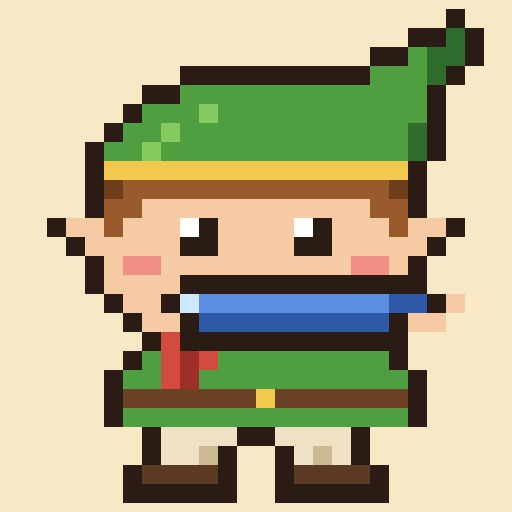
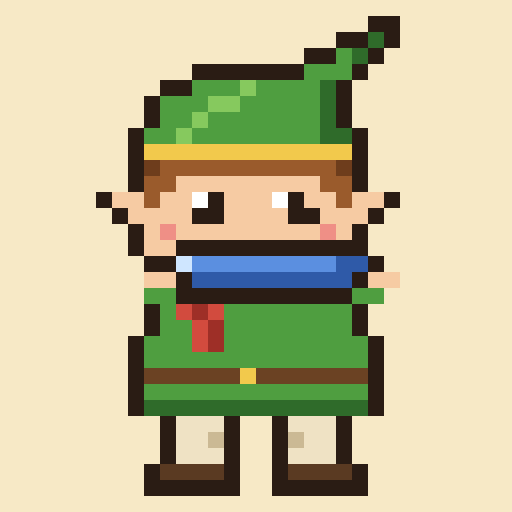
Elfe moins écrasé, trou double et positions des trous calés sur le modèle 11 trous
Claude-Session: https://claude.ai/code/session_01Dj4mnMGV58WeS5f45npAdA

diff --git a/js/scene.js b/js/scene.js
@@ -11,39 +11,43 @@
 
   // Corps du héros (20 x 21). Bonnet vert pointu qui retombe, écharpe rouge.
   const BODY = [
-    "......................k.",
-    "....................kkGk",
-    "..................kkgGGk",
-    "........kkkkkkkkkkgggGk.",
-    "......kkgggggggggggggk..",
-    ".....kggglgggggggggggk..",
-    "....kgglggggggggggggGk..",
-    "...kgglgggggggggggggGk..",
-    "...kyyyyyyyyyyyyyyyyk...",
-    "...kHhhhhhhhhhhhhhhHk...",
-    "...khhsssssssssssshhk...",
-    ".ksshssswesssswessshssk.",
-    "..kssssseesssseesssssk..",
-    "...kspps" + "ssssssss" + "sppsk...",
-    "...kssssssskksssssssk...",
-    "....kssssssssssssssk....",
-    ".....kkkkkkkkkkkkkk.....",
-    "......krrrrrrrrrrrk.....",
-    ".....kgrRrgggggggggk....",
-    "....kggrRgggggggggggk...",
-    "....kbbbbbbbybbbbbbbk...",
-    "....kgggggggggggggggk...",
-    "......knnnnkknnnnk......",
-    "......knnNk..knNnk......",
-    ".....kBBBBk..kBBBBk.....",
-    ".....kkkkkk..kkkkkk.....",
+    "..................kk..",
+    "................kkGk..",
+    "..............kkgGk...",
+    ".......kkkkkkkgggk....",
+    ".....kkggglggggGk.....",
+    "....kgggllgggggGk.....",
+    "....kgglgggggggGk.....",
+    "...kgglggggggggGGk....",
+    "...kyyyyyyyyyyyyyk....",
+    "...kHhhhhhhhhhhhHk....",
+    "...khhssssssssshhk....",
+    ".ksshsswessswesshssk..",
+    "..ksssseesssseesssk...",
+    "...kspssssssssspsk....",
+    "...ksssssskksssssk....",
+    "....ksssssssssssk.....",
+    ".......kSSSSSSk.......",
+    ".....krrrrrrrrrrk.....",
+    "....kgrRrggggggggk....",
+    "....kggrRggggggggk....",
+    "...kgggrRgggggggggk...",
+    "...kggggggggggggggk...",
+    "...kbbbbbbybbbbbbbk...",
+    "...kggggggggggggggk...",
+    "...kGGGGGGGGGGGGGGk...",
+    ".....knnnk..knnnk.....",
+    ".....knnNk..kNnnk.....",
+    ".....knnnk..knnnk.....",
+    "....kBBBBk..kBBBBk....",
+    "....kkkkkk..kkkkkk....",
   ];
   // Ocarina transversal tenu à la bouche (calque par-dessus le corps)
   const OCA = [
-    "........kkkkkkkkkkkk....",
-    ".......kWooooooooooOOks.",
-    "......sskOOOOOOOOOOkss..",
-    "........kkkkkkkkkkkk....",
+    "......kkkkkkkkkkk.....",
+    ".....kWoooooooooOOk...",
+    "....sskOOOOOOOOOOkss..",
+    "....ggkkkkkkkkkkkgg...",
   ];
   const OCA_Y = 14;
 
@@ -96,12 +100,12 @@
     set(state) { if (this.state !== state) { this.state = state; this.stateT = 0; } }
     emit(midi) {
       const col = NOTE_COLORS[((midi % 12) + 12) % 12];
-      this.particles.push({ x: 118, y: 60, vx: 0.15 + Math.random() * 0.25, vy: -0.35 - Math.random() * 0.2, life: 1, col, ph: Math.random() * 6 });
+      this.particles.push({ x: 112, y: 56, vx: 0.15 + Math.random() * 0.25, vy: -0.35 - Math.random() * 0.2, life: 1, col, ph: Math.random() * 6 });
     }
     sparkle(n = 14) {
       for (let i = 0; i < n; i++) {
         const a = Math.random() * Math.PI * 2;
-        this.particles.push({ x: 96, y: 55, vx: Math.cos(a) * 0.8, vy: Math.sin(a) * 0.8 - 0.4, life: 1, col: NOTE_COLORS[i % 12], star: true });
+        this.particles.push({ x: 96, y: 45, vx: Math.cos(a) * 0.8, vy: Math.sin(a) * 0.8 - 0.4, life: 1, col: NOTE_COLORS[i % 12], star: true });
       }
     }
     px(x, y, w, h, col) { this.ctx.fillStyle = col; this.ctx.fillRect(Math.round(x) * this.scale, Math.round(y) * this.scale, w * this.scale, h * this.scale); }
@@ -170,16 +174,16 @@
       if (this.state === "play") bob = Math.round(Math.sin(this.t * 6) * 0.5 + 0.5);
       if (this.state === "happy") bob = -Math.round(Math.abs(Math.sin(this.stateT * 9)) * 5);
       if (this.state === "oops") shake = Math.round(Math.sin(this.stateT * 40) * 1);
-      const hx0 = 72 + shake, hy0 = 37 + bob;
+      const hx0 = 74 + shake, hy0 = 28 + bob;
       // ombre
-      this.px(80, 87, 34, 3, "rgba(40,60,30,.35)");
+      this.px(82, 87, 30, 3, "rgba(40,60,30,.35)");
       const body = BODY.slice();
       const setc = (row, col, ch) => { body[row] = body[row].slice(0, col) + ch + body[row].slice(col + 1); };
       const eyes = (kind) => {
-        [8, 9, 14, 15].forEach((c) => { setc(11, c, "s"); setc(12, c, "s"); });
-        if (kind === "closed") [8, 9, 14, 15].forEach((c) => setc(12, c, "k"));
-        else if (kind === "happy") { [8, 9, 14, 15].forEach((c) => setc(11, c, "k")); [7, 10, 13, 16].forEach((c) => setc(12, c, "k")); }
-        else if (kind === "oops") { setc(11, 8, "k"); setc(12, 9, "k"); setc(11, 15, "k"); setc(12, 14, "k"); }
+        [7, 8, 12, 13].forEach((c) => { setc(11, c, "s"); setc(12, c, "s"); });
+        if (kind === "closed") [7, 8, 12, 13].forEach((c) => setc(12, c, "k"));
+        else if (kind === "happy") { [7, 8, 12, 13].forEach((c) => setc(11, c, "k")); [6, 9, 11, 14].forEach((c) => setc(12, c, "k")); }
+        else if (kind === "oops") { setc(11, 7, "k"); setc(12, 8, "k"); setc(11, 13, "k"); setc(12, 12, "k"); }
       };
       const blink = (this.t % 4) < 0.12;
       if (this.state === "play") eyes("closed");
@@ -191,12 +195,12 @@
       if (this.state !== "happy") {
         drawRows(ctx, OCA, hx0 * s, (hy0 + OCA_Y * 2) * s, hs);
       } else {
-        drawRows(ctx, [".ks..................sk.", ".ks..................sk."], hx0 * s, (hy0 + 17 * 2) * s, hs);
-        drawRows(ctx, ["kkkkkk", "kWoooOk", "kOOOOk", ".kkkk"], (hx0 + 42) * s, (hy0 + 12) * s, hs);
+        drawRows(ctx, ["ks................ks", "gk................kg", "gk................kg"], (hx0 + 1) * s, (hy0 + 15 * 2) * s, hs);
+        drawRows(ctx, ["kkkkkk", "kWoooOk", "kOOOOk", ".kkkk"], (hx0 + 38) * s, (hy0 + 14) * s, hs);
       }
       if (this.state === "oops") {
         // goutte de sueur
-        this.px(hx0 + 44, hy0 + 18, 2, 2, "#7fb4ff"); this.px(hx0 + 43, hy0 + 20, 4, 4, "#7fb4ff");
+        this.px(hx0 + 38, hy0 + 16, 2, 2, "#7fb4ff"); this.px(hx0 + 37, hy0 + 18, 4, 4, "#7fb4ff");
       }
 
       // ---- particules (notes de musique + étoiles)
@@ -218,9 +222,9 @@
   window.NOTE_COLORS = NOTE_COLORS;
   window.drawHeroIcon = function (canvas, scale) {
     const ctx = canvas.getContext("2d");
-    canvas.width = 26 * scale; canvas.height = 26 * scale;
+    canvas.width = 32 * scale; canvas.height = 32 * scale;
     ctx.imageSmoothingEnabled = false;
-    drawRows(ctx, BODY, 1 * scale, 0, scale);
-    drawRows(ctx, OCA, 1 * scale, OCA_Y * scale, scale);
+    drawRows(ctx, BODY, 5 * scale, 1 * scale, scale);
+    drawRows(ctx, OCA, 5 * scale, (1 + OCA_Y) * scale, scale);
   };
 })();

diff --git a/js/app.js b/js/app.js
@@ -65,8 +65,8 @@
   // (embouchure en bas à gauche, pointe à droite, vue de dessus).
   const HOLES = [
     // id, x, y, r
-    ["Li", 50, 24, 6], ["Lm", 78, 27, 8.5], ["Lr", 107, 31, 8], ["Lp", 140, 45, 5.5],
-    ["Ri", 112, 62, 8], ["Rm", 143, 64, 7], ["Rr", 171, 70, 7],
+    ["Li", 56, 19, 5.5], ["Lm", 83, 24, 8], ["Lr", 110, 27, 8], ["Lp", 147, 46, 5],
+    ["Ri", 116, 60, 8], ["Rm", 146, 61, 6.5], ["Rr", 171, 66, 6.5],
   ];
   const THUMBS = [["Lt", 22, 118, 8], ["Rt", 104, 118, 8]];
   const DARK = "#3a2414";
@@ -89,7 +89,7 @@
     HOLES.forEach((h) => (s += holeSVG(h, f)));
     // trou double de l'auriculaire droit
     const rp = f ? f.Rp || 0 : 0;
-    s += circle(194, 75, 3.6, rp >= 0.5) + circle(203, 79, 3.6, rp === 1);
+    s += circle(197, 72, 3.4, rp >= 0.5) + circle(195, 80.5, 3.4, rp === 1);
     // pouces (dessous)
     THUMBS.forEach((h) => (s += holeSVG(h, f, true)));
     s += `<text x="22" y="99" text-anchor="middle" font-size="8" fill="#7a5a3a" font-family="sans-serif">pouce G ⤵</text>`;

diff --git a/sw.js b/sw.js
@@ -1,5 +1,5 @@
 // Cache hors-ligne : l'appli fonctionne sans réseau une fois ouverte une fois.
-const CACHE = "ocarina-v2";
+const CACHE = "ocarina-v3";
 const FILES = ["./", "index.html", "css/style.css", "js/songs.js", "js/songs-ocwalk.js", "js/music.js", "js/scene.js", "js/app.js",
   "manifest.webmanifest", "icons/icon-192.png", "icons/icon-512.png"];
 self.addEventListener("install", (e) => { e.waitUntil(caches.open(CACHE).then((c) => c.addAll(FILES))); self.skipWaiting(); });
